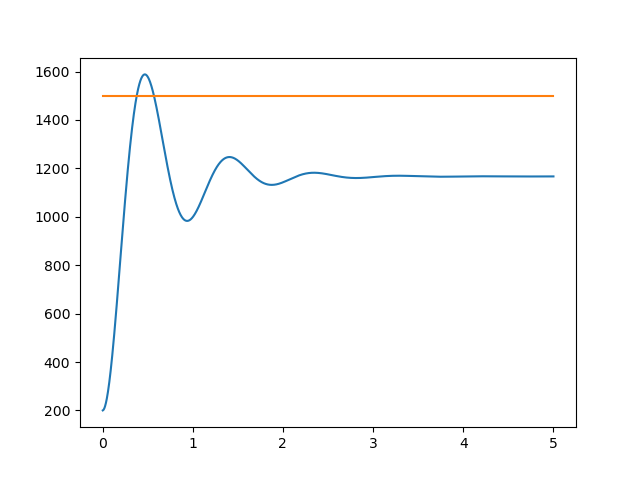
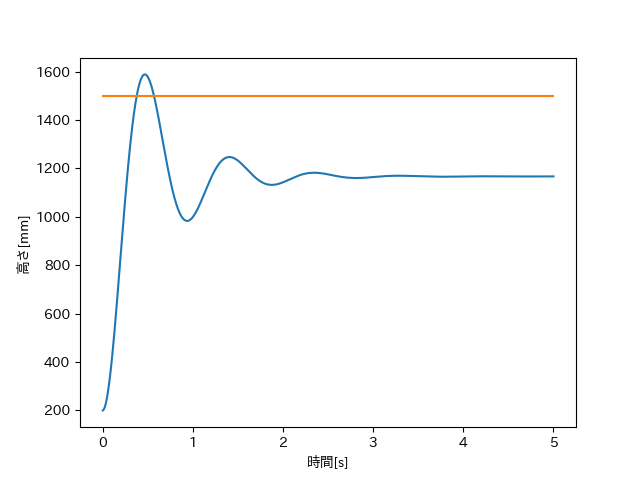
軸に説明を追加

diff --git a/drone/main.py b/drone/main.py
@@ -6,6 +6,7 @@ from scipy import linalg
 import matplotlib.pyplot as plt
 import matplotlib.patches as patches
 import matplotlib.animation as animation
+import japanize_matplotlib
 import subprocess as sp
 fig = plt.figure()
 vel_scale = 4.0
@@ -112,6 +113,8 @@ class Drone:
             y_.append(self.x[0])
         plt.plot(t_,y_)
         plt.plot([0,self.T/vel_scale],[self.y0,self.y0])
+        plt.xlabel("時間[s]")
+        plt.ylabel("高さ[mm]")
         plt.savefig(name)
         plt.pause(1.0)
         plt.cla()
